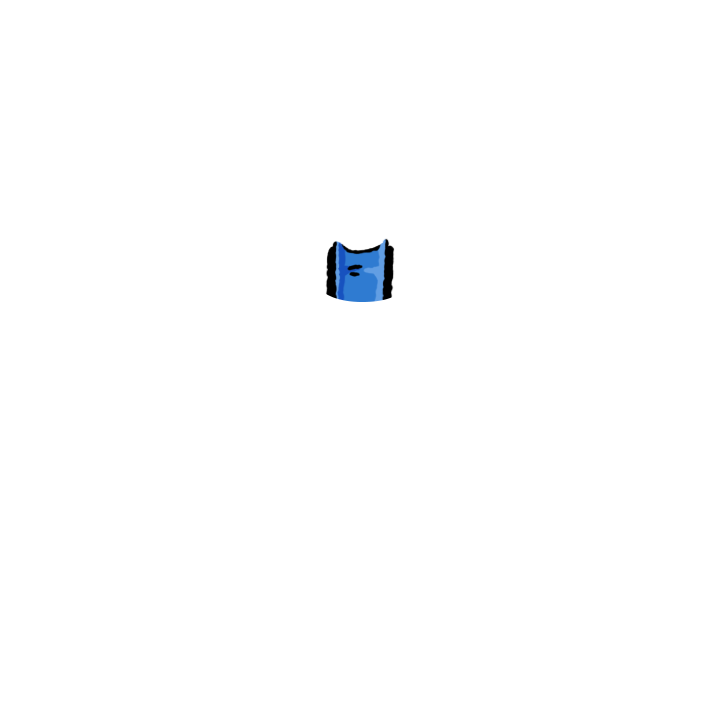
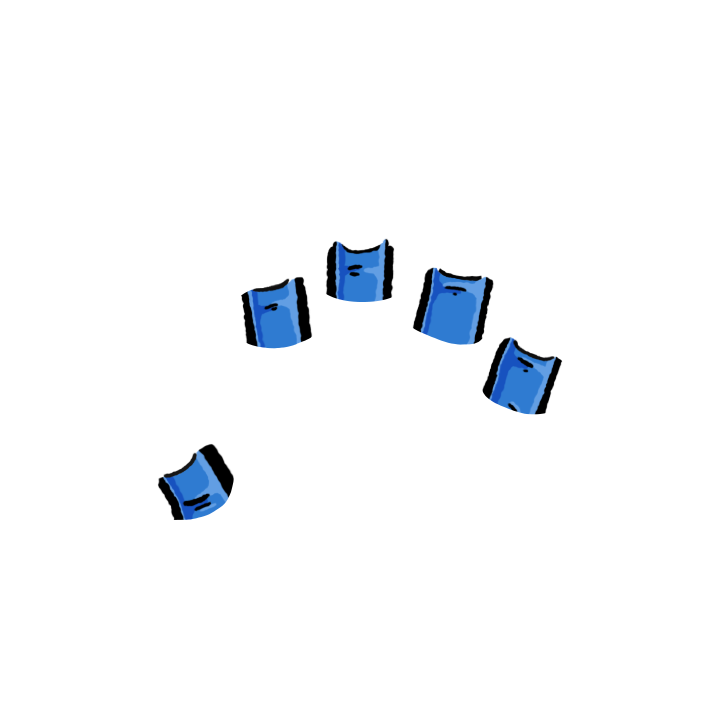
Updated Finger Masks
Adjusted nail placements and added new masks to the nail beds

Changed region(s): [[0.55, 0.3667, 0.7944, 0.5806], [0.2139, 0.6111, 0.3361, 0.7333], [0.3361, 0.3667, 0.4278, 0.4889]]

diff --git a/sketch.js b/sketch.js
@@ -5,7 +5,7 @@ let handBase;
 
 let nailRot = 0;
 
-let nailTransform = [[176,467,-34], [274,296,-10], [360,280,0], [459,279,10.5],[532,354,23]];
+let nailTransform = [[202,498,-35], [277,323,-10], [360,280,0], [453,307,10.5],[516,390,23]];
 
 function preload() {
   handBase = loadImage('images/hand_base.png');
@@ -37,6 +37,18 @@ function draw() {
   pop();
   }
 
+  /* Nail Calibrator  */
+  //   push();
+  //   translate(mouseX,mouseY);
+  // rotate(nailRot);
+  //   fill(220,230,255);
+  //   rect(-nailWidth/2,-nailLength,nailWidth,nailLength);
+  //   fill(255);
+  //   rect(-nailWidth/2,-nailLength-15,nailWidth,15,7.5,7.5,0,0);
+  // pop();
+
+
+  print(mouseX,mouseY,nailRot);
       image(handMask,(width-720)/2,height-720);
 
 
